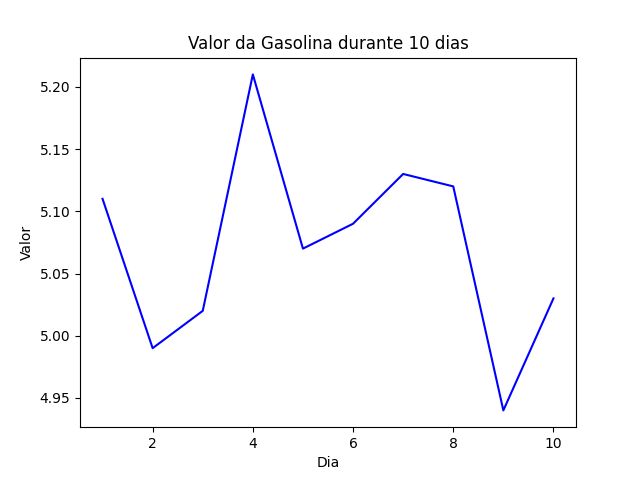
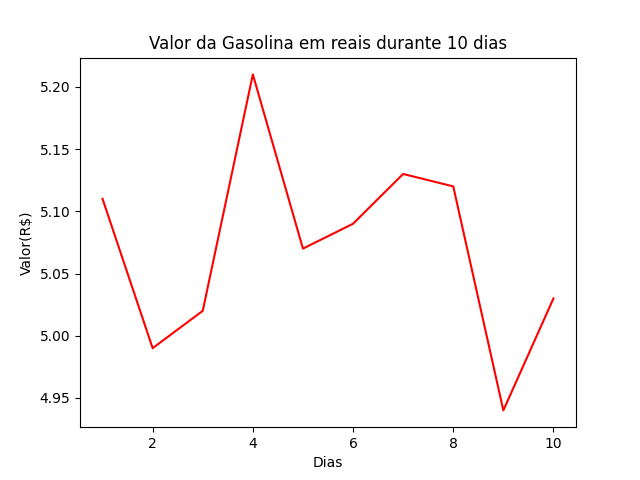
Arquivos alterados branch develop

diff --git a/gasolina.py b/gasolina.py
@@ -2,12 +2,11 @@ import pandas as pd
 import seaborn as sns
 import matplotlib.pyplot as plt
 
+# código de geração do gráfico
 gasolina_df = pd.read_csv("gasolina.csv")
+gasolina = sns.lineplot(data=gasolina_df, x="dia", y="venda", color='red')
+gasolina.set(title="Valor da Gasolina em reais durante 10 dias", xlabel="Dias", ylabel="Valor(R$)")
 
-gasolina_df.head(10)
-
-gasolina = sns.lineplot(data=gasolina_df, x="dia", y="venda", color='blue')
-gasolina.set(title="Valor da Gasolina durante 10 dias", xlabel="Dia", ylabel="Valor")
-
+#salvar o grafico como png
 gasolina_fig = gasolina.get_figure()
 gasolina_fig.savefig('gasolina.png')
